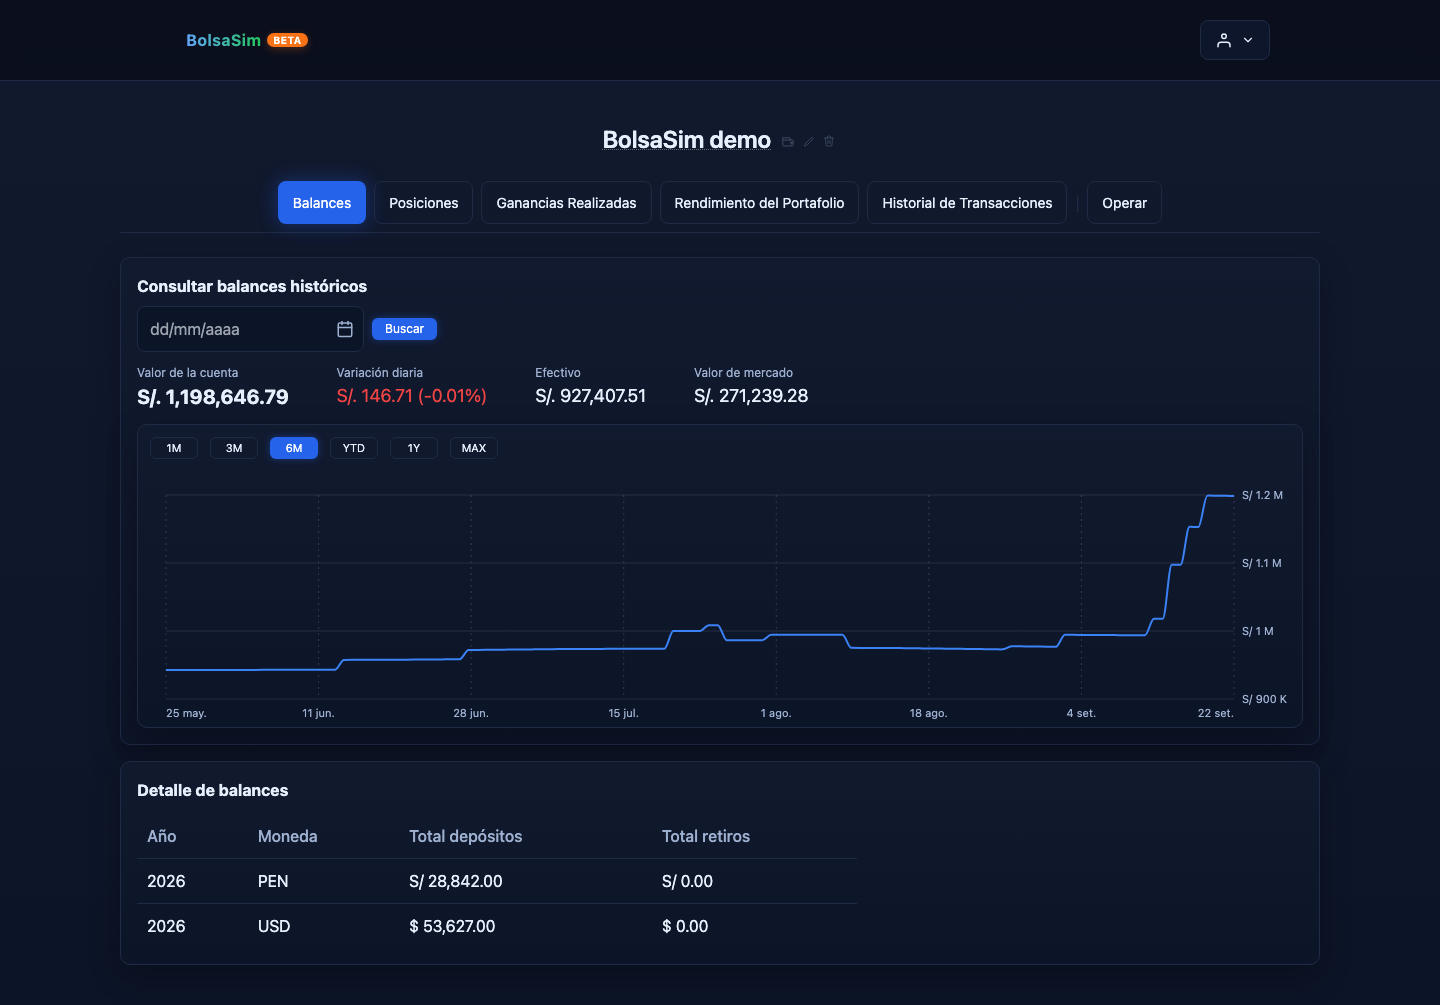
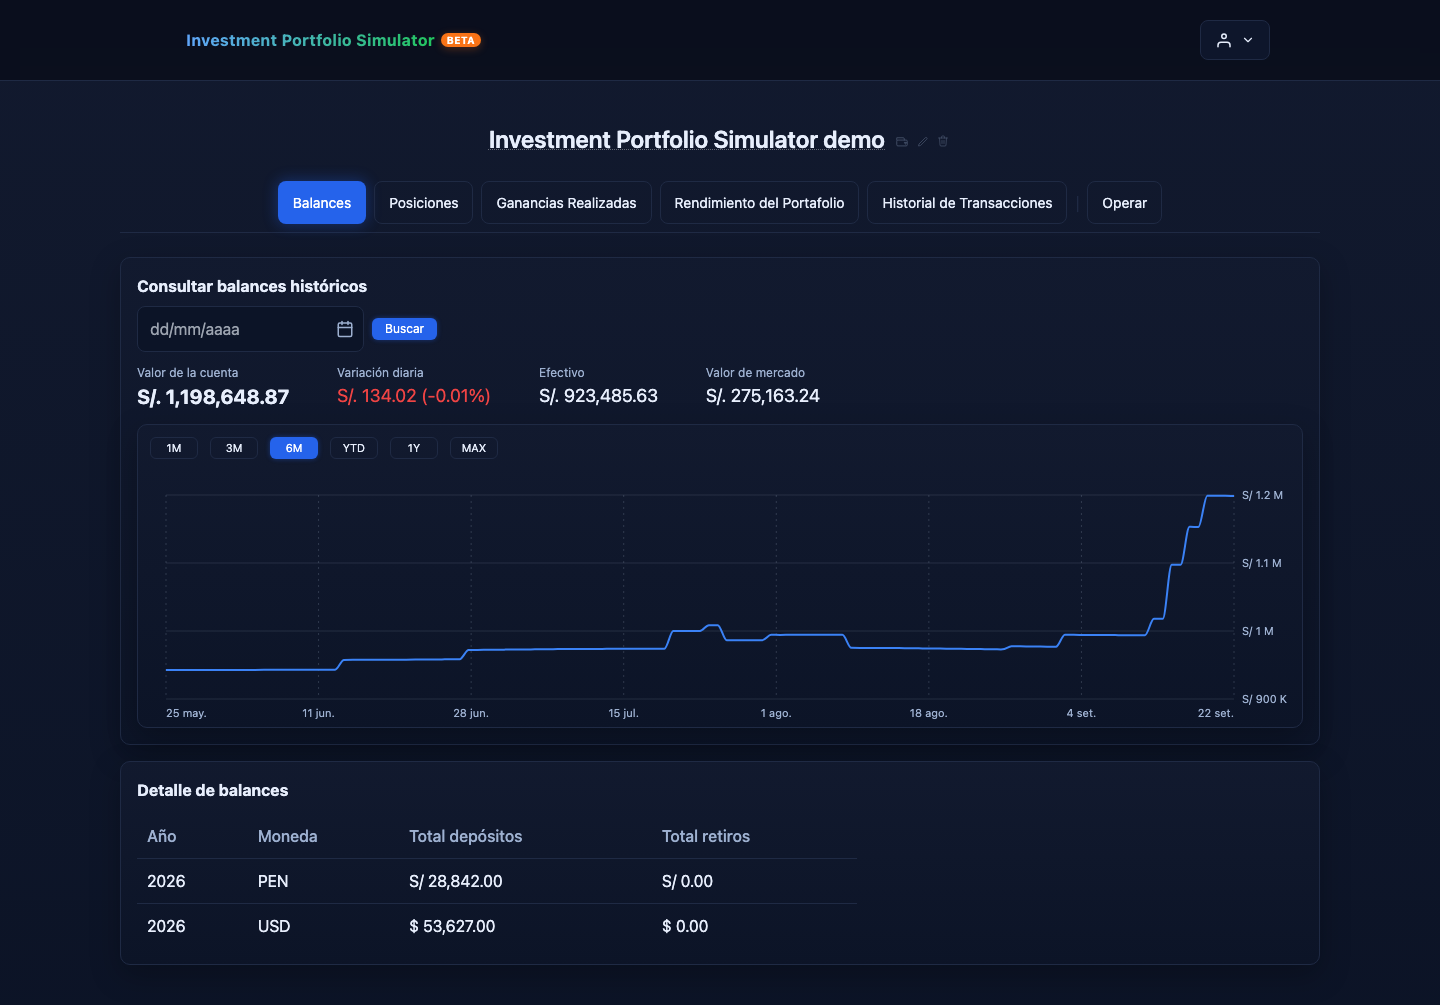
Rename project to Investment Portfolio Simulator

diff --git a/frontend/src/index.css b/frontend/src/index.css
@@ -319,7 +319,7 @@ code { font-family: var(--font-mono); }
 .landing-root .footer { margin-top: auto; }
 .brand { font-weight: 700; letter-spacing: .4px; display: inline-flex; align-items: center; gap: 6px; }
 /* Apply the gradient to the brand text only */
-.brand-text { background: linear-gradient(90deg, #60a5fa, #22c55e); -webkit-background-clip: text; background-clip: text; color: transparent; line-height: 1; }
+.brand-text { background: linear-gradient(90deg, #60a5fa, #22c55e); -webkit-background-clip: text; background-clip: text; color: transparent; line-height: 1; white-space: nowrap; font-size: clamp(12px, 2.2vw, 16px); }
 .brand-clickable { cursor: pointer; display: inline-flex; align-items: center; gap: 6px; min-height: 48px; padding: 0 16px; border-radius: 12px; }
 /* Make the BETA badge background orange */
 .brand-badge { 
@@ -328,6 +328,13 @@ code { font-family: var(--font-mono); }
   background: #f97316; /* orange */
   color: #fff; display: inline-flex; align-items: center; vertical-align: middle;
   box-shadow: 0 2px 8px rgba(249, 115, 22, .28);
+}
+@media (max-width: 520px) {
+  .landing-nav .container { padding: 0 10px; }
+  .brand-clickable { min-height: 40px; padding: 0; }
+  .brand-text { font-size: 11px; }
+  .brand-badge { display: none; }
+  .landing-nav .btn { padding: 8px 10px; font-size: 12px; }
 }
 .hero { position: relative; padding: 64px 0px 30px; }
 .hero-grid { display: grid; grid-template-columns: 1.3fr 1fr; gap: 24px; align-items: center; }

diff --git a/frontend/index.html b/frontend/index.html
@@ -2,15 +2,15 @@
 <html lang="es">
   <head>
     <meta charset="UTF-8" />
-    <link rel="icon" type="image/png" href="/SB-favicon.png" />
+    <link rel="icon" type="image/png" href="/investment-portfolio-simulator-favicon.png" />
     <meta name="viewport" content="width=device-width, initial-scale=1.0" />
-    <meta name="description" content="BolsaSim: simulador educativo de inversiones en mercados peruanos y estadounidenses." />
+    <meta name="description" content="Investment Portfolio Simulator: simulador educativo de portafolios en mercados peruanos y estadounidenses." />
     <meta property="og:type" content="website" />
-    <meta property="og:title" content="BolsaSim | Simulador de inversiones" />
+    <meta property="og:title" content="Investment Portfolio Simulator" />
     <meta property="og:description" content="Explora portafolios, operaciones y rendimiento en un simulador educativo de inversiones." />
     <meta property="og:url" content="https://bolsasim.com/" />
     <link rel="canonical" href="https://bolsasim.com/" />
-    <title>BolsaSim | Simulador de inversiones</title>
+    <title>Investment Portfolio Simulator</title>
   </head>
   <body>
     <div id="root"></div>

diff --git a/frontend/src/components/Header.jsx b/frontend/src/components/Header.jsx
@@ -66,12 +66,12 @@ const Header = () => {
           onClick={handleBrandClick}
           onKeyDown={onBrandKey}
         >
-          <span className="brand-text">BolsaSim</span> <span className="brand-badge">BETA</span>
+          <span className="brand-text">Investment Portfolio Simulator</span> <span className="brand-badge">BETA</span>
         </a>
         {!isAuthPage && !isAuthenticated && (
           <nav className="row">
             {DEMO_PAUSED ? (
-              <a className="btn primary" href="https://github.com/Pumpurri/paper-trading-simulator">Ver el proyecto</a>
+              <a className="btn primary" href="https://github.com/Pumpurri/investment-portfolio-simulator">Ver el proyecto</a>
             ) : (
               <>
                 <Link className="btn primary" to="/register">Regístrate</Link>

diff --git a/frontend/src/components/DemoDashboard.jsx b/frontend/src/components/DemoDashboard.jsx
@@ -94,7 +94,7 @@ export default function DemoDashboard() {
         </section>
 
         <p className="preview-disclaimer">Esta vista usa datos ficticios. La demo interactiva y las cotizaciones están pausadas.</p>
-        <div className="preview-links"><Link className="btn" to="/">Volver al inicio</Link><a className="btn primary" href="https://github.com/Pumpurri/paper-trading-simulator">Explorar el código</a></div>
+        <div className="preview-links"><Link className="btn" to="/">Volver al inicio</Link><a className="btn primary" href="https://github.com/Pumpurri/investment-portfolio-simulator">Explorar el código</a></div>
       </div>
     </main>
   );

diff --git a/frontend/e2e/showcase.pw.js b/frontend/e2e/showcase.pw.js
@@ -8,7 +8,7 @@ test('signs in, inspects a generated portfolio, and places a paper trade', async
   await page.getByRole('button', { name: 'Entrar' }).click();
 
   await expect(page).toHaveURL(/\/dashboard$/);
-  await expect(page.getByRole('heading', { name: 'BolsaSim demo' })).toBeVisible();
+  await expect(page.getByRole('heading', { name: 'Investment Portfolio Simulator demo' })).toBeVisible();
   await expect(page.getByText('TWR anual').locator('..')).toContainText('%');
 
   await page.getByRole('link', { name: 'Ver detalle' }).click();

diff --git a/frontend/src/components/Landing.jsx b/frontend/src/components/Landing.jsx
@@ -286,7 +286,7 @@ const Landing = () => {
           className={`container row ${isVisible['footer-top'] ? 'animate-fade-up' : ''}`}
           style={{ justifyContent: 'space-between' }}
         >
-          <span className="muted">© {new Date().getFullYear()} BolsaSim</span>
+          <span className="muted">© {new Date().getFullYear()} Investment Portfolio Simulator</span>
           <span />
         </div>
         <div

diff --git a/backend/portfolio/tests/management/test_create_showcase_portfolio.py b/backend/portfolio/tests/management/test_create_showcase_portfolio.py
@@ -52,7 +52,7 @@ def test_showcase_creates_one_populated_portfolio(monkeypatch):
     assert user.check_password("local-test-password")
     portfolio = Portfolio.objects.get(user=user)
     assert portfolio.is_default
-    assert portfolio.name == "BolsaSim demo"
+    assert portfolio.name == "Investment Portfolio Simulator demo"
     assert Transaction.objects.filter(portfolio=portfolio).count() >= 25
     assert DailyPortfolioSnapshot.objects.filter(portfolio=portfolio).count() >= 35
     assert portfolio.performance.time_weighted_return.is_finite()

diff --git a/backend/portfolio/management/commands/create_showcase_portfolio.py b/backend/portfolio/management/commands/create_showcase_portfolio.py
@@ -52,7 +52,7 @@ class Command(BaseCommand):
             call_command(
                 "create_test_portfolio",
                 username=self.EMAIL,
-                portfolio_name="BolsaSim demo",
+                portfolio_name="Investment Portfolio Simulator demo",
                 days=options["days"],
                 transactions=options["transactions"],
                 confirm_disposable=True,

diff --git a/backend/portfolio/integrations/bcrp_client.py b/backend/portfolio/integrations/bcrp_client.py
@@ -22,7 +22,7 @@ def _fetch(url: str) -> str:
         url,
         timeout=20,
         headers={
-            "User-Agent": "privateiv/1.0 (+bcrp)",
+            "User-Agent": "investment-portfolio-simulator/1.0 (+bcrp)",
             "Accept": "application/json,text/csv,text/plain,*/*",
         },
     )

diff --git a/README.md b/README.md
@@ -1,12 +1,12 @@
-# BolsaSim
+# Investment Portfolio Simulator
 
-A full-stack paper-trading simulator for Peruvian and U.S. markets. It tracks simulated trades, PEN/USD cash wallets, cost basis, and historical portfolio performance through a React client and a Django API.
+A full-stack investment portfolio simulator for Peruvian and U.S. markets. It tracks simulated trades, PEN/USD cash wallets, cost basis, and historical portfolio performance through a React client and a Django API.
 
-[![CI](https://github.com/Pumpurri/paper-trading-simulator/actions/workflows/ci.yml/badge.svg)](https://github.com/Pumpurri/paper-trading-simulator/actions/workflows/ci.yml) · [Read-only preview](https://bolsasim.com/preview) · [Run locally](docs/development.md)
+[![CI](https://github.com/Pumpurri/investment-portfolio-simulator/actions/workflows/ci.yml/badge.svg)](https://github.com/Pumpurri/investment-portfolio-simulator/actions/workflows/ci.yml) · [Read-only preview](https://bolsasim.com/preview) · [Run locally](docs/development.md)
 
 > **Try it:** Explore the fictional, [read-only preview](https://bolsasim.com/preview). Interactive registration, trading, and current quotes are intentionally offline.
 
-![Authenticated BolsaSim portfolio balances, chart, and cash history with generated local data](docs/images/authenticated-portfolio.png)
+![Authenticated Investment Portfolio Simulator balances, chart, and cash history with generated local data](docs/images/authenticated-portfolio.png)
 
 *The actual authenticated app, captured from a disposable local account with generated trades and prices. This is neither a live portfolio nor current market data.*
 

diff --git a/backend/OBSERVABILITY.md b/backend/OBSERVABILITY.md
@@ -15,11 +15,11 @@ docker compose -f docker-compose.datadog.yml up -d
 The compose file enables APM and collects container logs. Review that collection and Datadog billing/privacy settings before using it with any real data. Never commit the API key. To trace Django and Celery, run their wrappers from `backend/` in separate terminals:
 
 ```bash
-DD_SERVICE=bolsasim-api DD_ENV=development ./observability/run_apm_django.sh
+DD_SERVICE=investment-portfolio-simulator-api DD_ENV=development ./observability/run_apm_django.sh
 ```
 
 ```bash
-DD_SERVICE=bolsasim-worker DD_ENV=development ./observability/run_apm_celery.sh
+DD_SERVICE=investment-portfolio-simulator-worker DD_ENV=development ./observability/run_apm_celery.sh
 ```
 
 The wrappers set `DD_TRACE_ENABLED=true` and use `ddtrace-run` for automatic instrumentation. Setting `DD_TRACE_ENABLED=true` without a wrapper enables only the app's custom spans, not automatic framework instrumentation.

diff --git a/RAILWAY_DEPLOYMENT.md b/RAILWAY_DEPLOYMENT.md
@@ -1,6 +1,6 @@
 # Deployment runbook
 
-BolsaSim's public frontend is hosted on Vercel at [bolsasim.com](https://bolsasim.com/). The Railway API, PostgreSQL, Redis, worker, and beat services are intentionally paused. The public `/preview` page uses fictional data and does not need Railway. Do not start services simply to view the portfolio project.
+Investment Portfolio Simulator's public frontend is hosted on Vercel at [bolsasim.com](https://bolsasim.com/). The Railway API, PostgreSQL, Redis, worker, and beat services are intentionally paused. The public `/preview` page uses fictional data and does not need Railway. Do not start services simply to view the portfolio project.
 
 ## Architecture when the interactive demo is enabled
 
